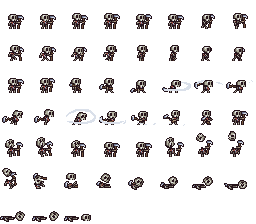
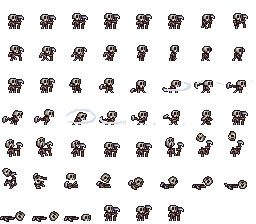
Boss uses heal ability (infinite healing abuse)

Changed region(s): [[0.6562, 0.9062, 0.7188, 1.0], [0.5312, 0.9062, 0.5938, 1.0], [0.4062, 0.9062, 0.4688, 1.0]]

diff --git a/Assets/_Scripts/Core/Tests/AITests.cs b/Assets/_Scripts/Core/Tests/AITests.cs
@@ -241,5 +241,30 @@ namespace MagmaHeart.Core.Tests
             Assert.That(executedAbilities[0].Effects, Has.Some.InstanceOf<DamageEffect>());
             Assert.That(executedAbilities[1].Effects, Has.Some.InstanceOf<DamageEffect>());
         }
+
+        [Test]
+        [TestCase(2)]
+        [TestCase(3)]
+        [TestCase(4)]
+        public void HealPlan_EnemyWithLowHealth_Heals(int depth)
+        {
+            AIScenario scenario = AIScenarioBuilder.Create(World)
+                .AddEntity()
+                    .IsPlayer(false)
+                    .WithParameterValue(ParameterDatabase.Health, 1)
+                    .WithParameterValue(ParameterDatabase.Energy, 3)
+                    .WithData(EntityDatabase.SkeletonBoss)
+                    .At(3, 3)
+                .AddEntity()
+                    .IsPlayer(true)
+                    .WithData(EntityDatabase.Warrior)
+                    .At(2, 3)
+                .Build();
+
+            IList<AbilityPlan> best = scenario.RunAI(depth, ParameterDatabase, Dispatcher);
+
+            Assert.That(best.Count(), Is.EqualTo(1));
+            Assert.That(best.First().Effects, Has.Some.InstanceOf<HealEffect>());
+        }
     }
 }

diff --git a/Assets/_Scripts/Core/AI/SelfTargetSelector.cs b/Assets/_Scripts/Core/AI/SelfTargetSelector.cs
@@ -1,0 +1,15 @@
+using MagmaHeart.Abilities.Targeting;
+using MagmaHeart.AI;
+using MagmaHeart.AI.Reasoning;
+
+namespace MagmaHeart.Core.AI
+{
+    [System.Serializable]
+    public class SelfTargetSelector : ITargetSelector
+    {
+        public AbilityTarget SelectTarget(IBoardGameWorld world, int executorId)
+        {
+            return AbilityTarget.EntityTarget(executorId, null);
+        }
+    }
+}

diff --git a/Assets/_Scripts/Core/Tests/CoreTests.cs b/Assets/_Scripts/Core/Tests/CoreTests.cs
@@ -28,6 +28,8 @@ namespace MagmaHeart.Core.Tests
             Dispatcher.Register(new SpendResourceHandler());
             Dispatcher.Register(new RestoreParameterHandler());
             Dispatcher.Register(new MoveHandler());
+            Dispatcher.Register(new DecreaseCooldownHandler());
+            Dispatcher.Register(new HealHandler());
         }
 
         [SetUp]